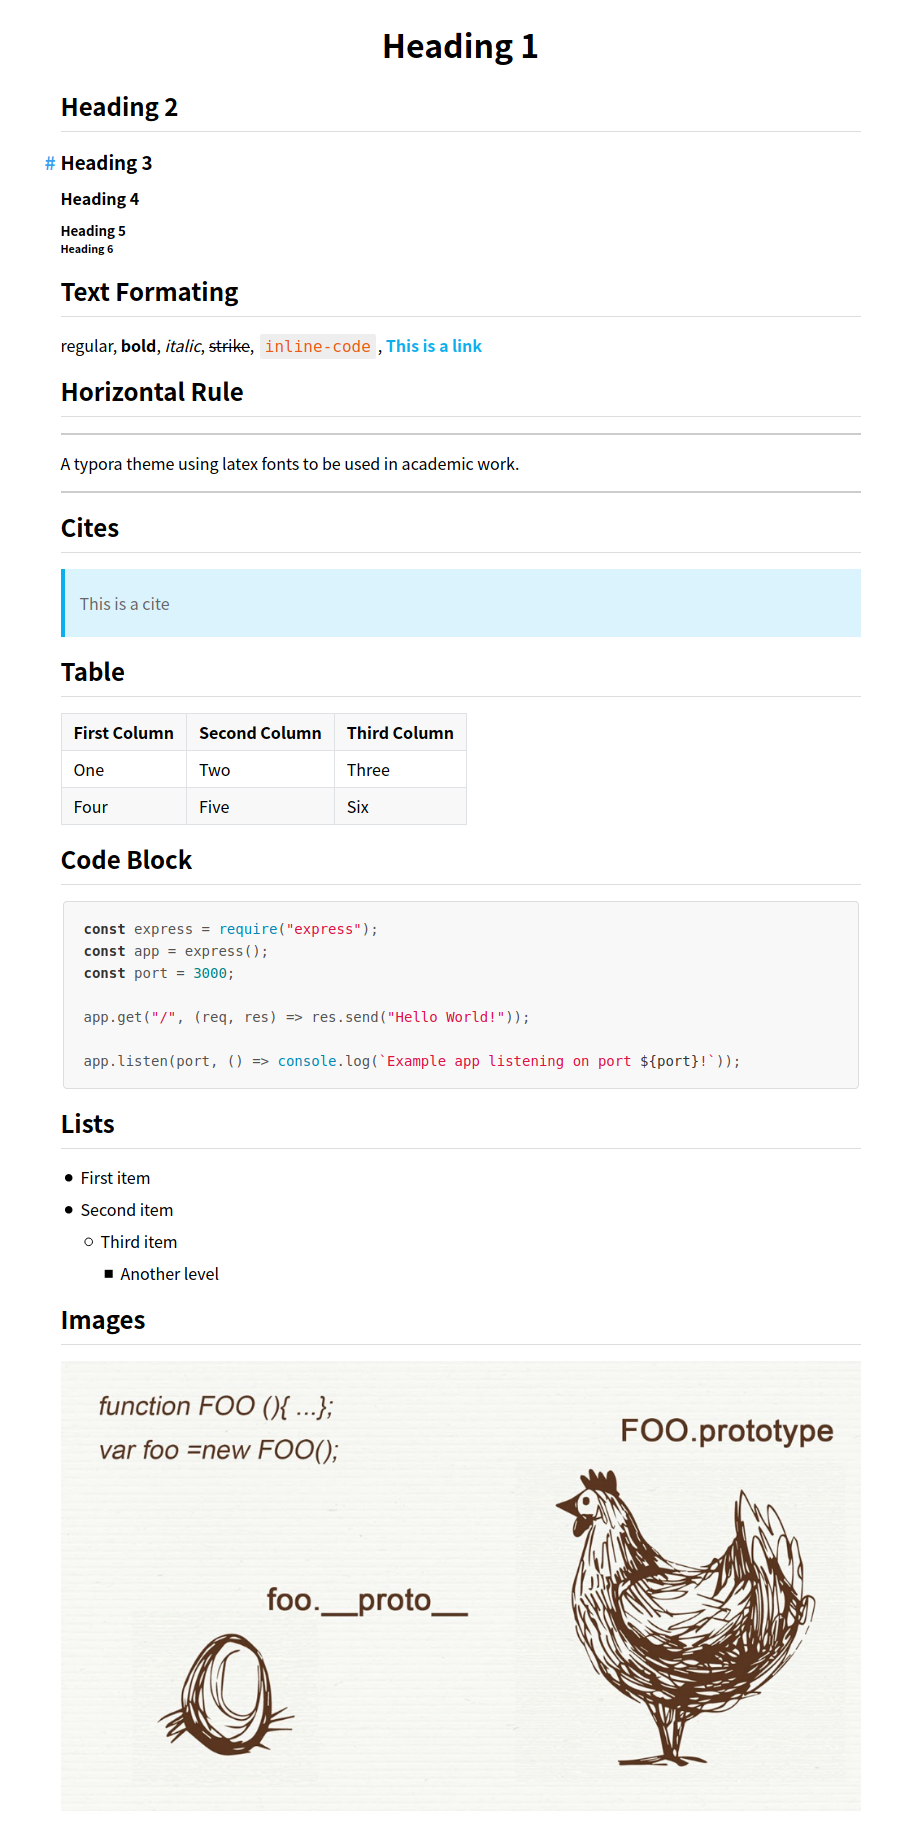
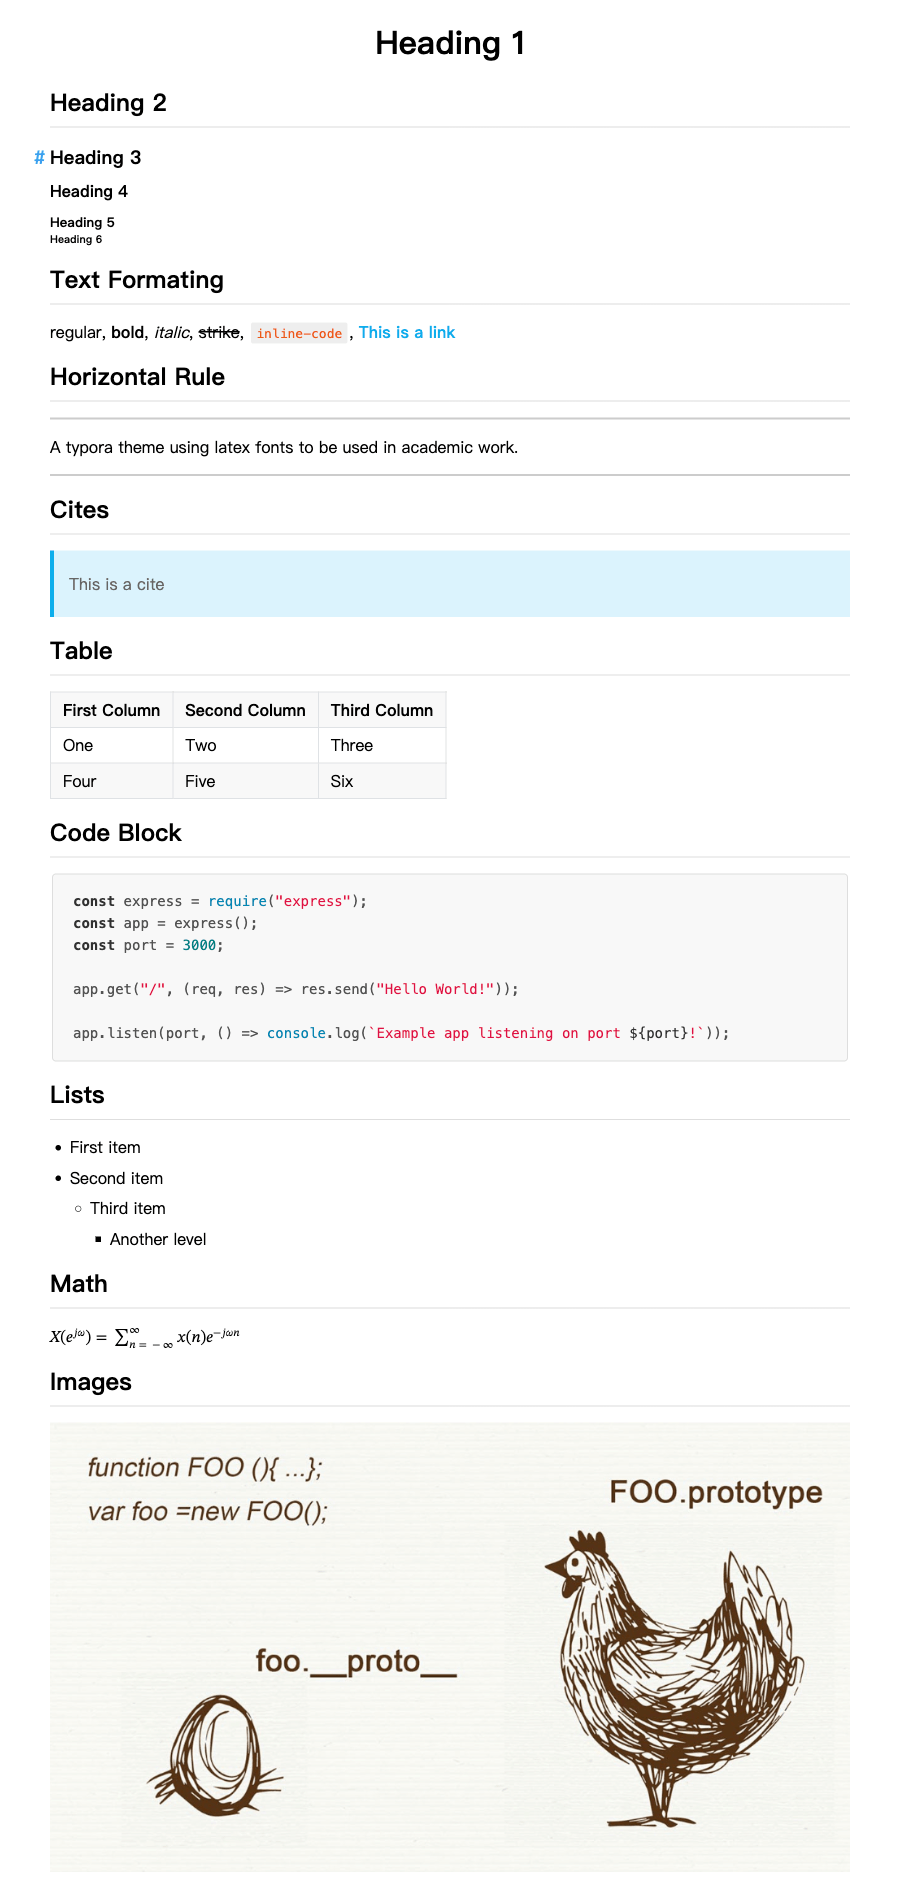
为 Example 增加 Katex 数学公式显示 (#10)
* 数学公式支持

* Update README.md

* Update README.md

* Update README.md

* style: change demo

* chore: replace screenshot 2x to 1x

* docs: update README

---------

diff --git a/example/index.js b/example/index.js
@@ -2,8 +2,10 @@ const express = require('express')
 const app = express()
 const port = 3000
 
-// 语法高亮
-//   引入 highlight.js 并配置到 markdown-it
+const fs = require('fs')
+const path = require('path')
+
+// 可选：语法高亮 highlight.js
 const hljs = require('highlight.js')
 const highlight = (str, lang) => {
   let code = md.utils.escapeHtml(str)
@@ -13,8 +15,12 @@ const highlight = (str, lang) => {
   return `<pre class="hljs"><code>${code}</code></pre>`
 }
 const md = require('markdown-it')({ highlight })
-const fs = require('fs')
-const path = require('path')
+
+// 可选：支持数学公式 Katex
+md.use(require('@vscode/markdown-it-katex').default, {
+  throwOnError: false,
+  output: 'mathml'
+})
 
 // 配置模版引擎
 app.engine('html', require('./template-engine'))

diff --git a/README.md b/README.md
@@ -28,6 +28,8 @@
    <div id="markdown"></div>
    ```
 
-## 代码高亮
+## 扩展
 
 案例 `/example` 中使用了 `highlight.js` 库完成代码高亮，具体可以参考 [highlight.js 语法高亮](https://anandzhang.com/posts/frontend/8) 
+
+数学公式使用 [Katex](https://katex.org/) ，示例中使用 [@vscode/markdown-it-katex](https://github.com/microsoft/vscode-markdown-it-katex) 插件引入。

diff --git a/example/public/posts/demo.md b/example/public/posts/demo.md
@@ -52,6 +52,11 @@ app.listen(port, () => console.log(`Example app listening on port ${port}!`));
   - Third item
     - Another level
 
+## Math
+
+$X(e^{j\omega}) = \sum_{n=-\infty}^{\infty} x(n) e^{-j\omega n}$
+
+
 ## Images
 
 ![demo](/public/images/demo.png)
